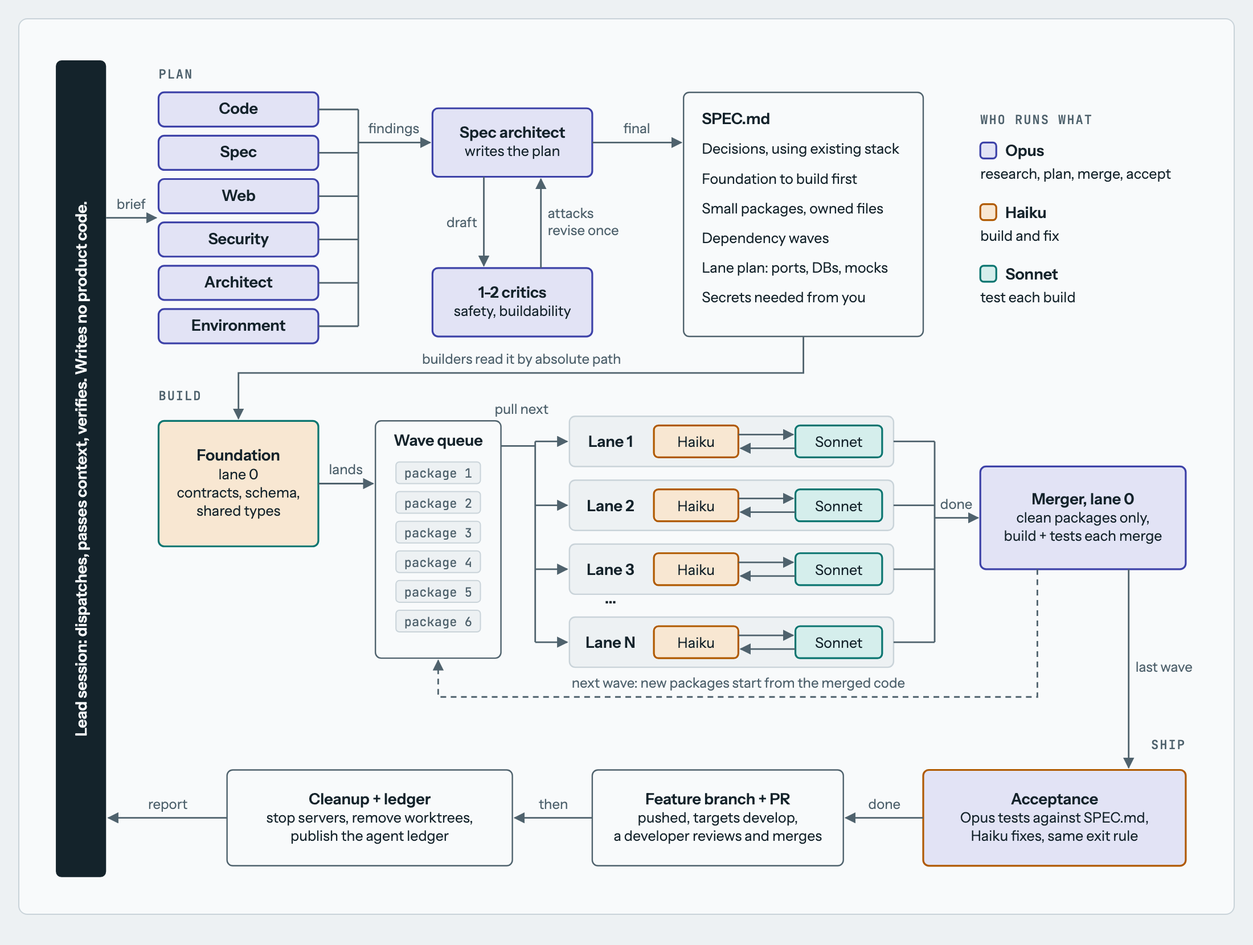
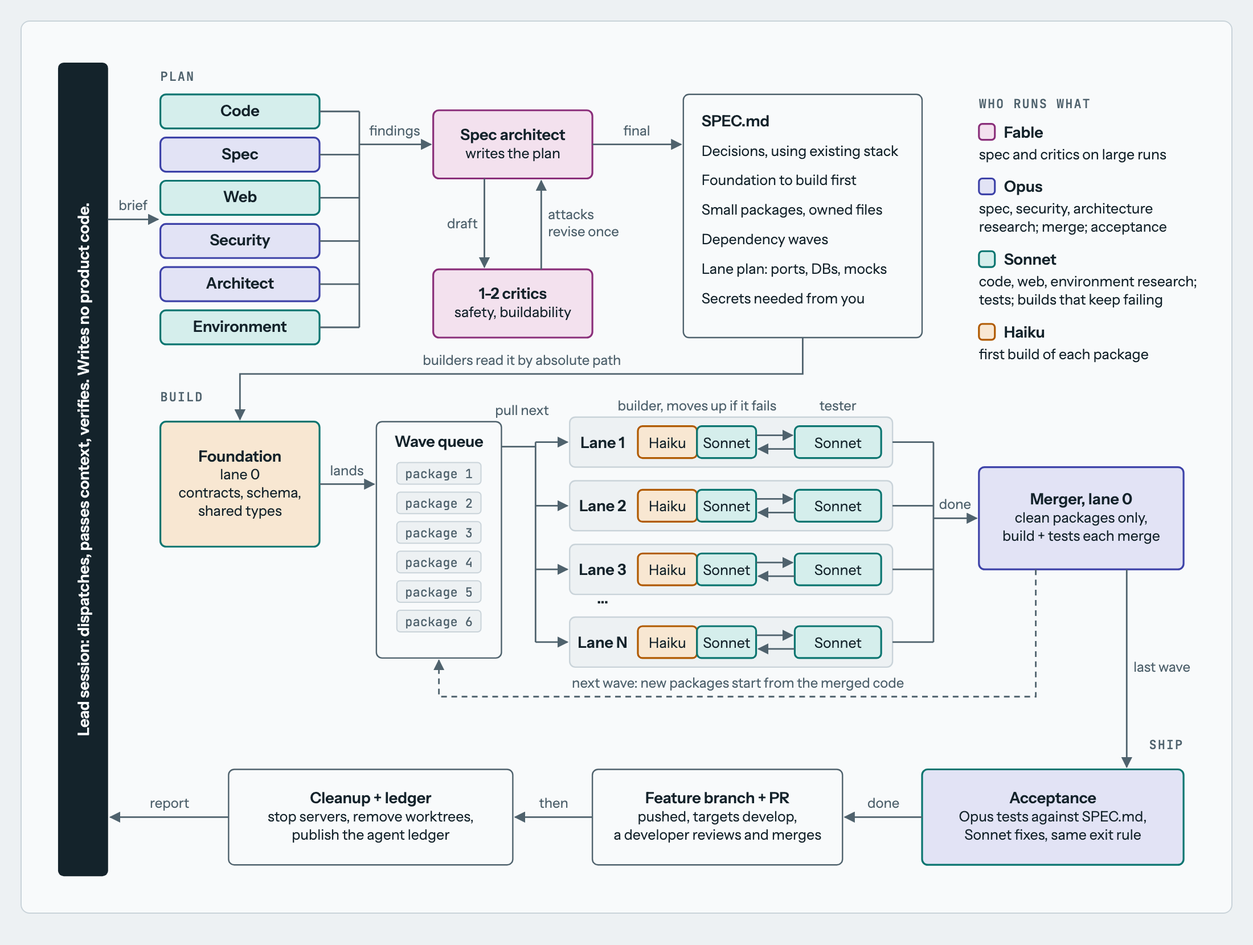
Redraw the factory diagram for the new model roles
Show Sonnet and Opus research, a Fable architect and critics, builders
that start on Haiku and move up to Sonnet, and a Sonnet acceptance
fixer, in both the README image and the map page.

diff --git a/software-factory-map.html b/software-factory-map.html
@@ -11,7 +11,7 @@
 /* Layout: a plant schematic. One large line drawing, then close-ups of its two key stations. */
 :root{
   --bg:#EDF1F3; --panel:#F8FAFB; --fg:#14232B; --muted:#4F626D; --line:#C9D3D9;
-  --opus:#3D42A8; --opus-t:#E2E3F5; --haiku:#B05A00; --haiku-t:#F8E7D2; --sonnet:#0A7570; --sonnet-t:#D5EEEC;
+  --opus:#3D42A8; --opus-t:#E2E3F5; --haiku:#B05A00; --haiku-t:#F8E7D2; --sonnet:#0A7570; --sonnet-t:#D5EEEC; --fable:#8A2F7A; --fable-t:#F3E1EE;
   --ok:#23723F; --ok-t:#DCEFE2; --bad:#B7322C; --bad-t:#F7E0DE; --lead:#14232B; --lead-fg:#F8FAFB;
   --display:"Bricolage Grotesque","Avenir Next",system-ui,sans-serif;
   --body:"Instrument Sans",system-ui,-apple-system,"Segoe UI",sans-serif;
@@ -19,11 +19,11 @@
 }
 @media (prefers-color-scheme: dark){:root:not([data-theme="light"]){
   --bg:#10181D; --panel:#172228; --fg:#E6EDF0; --muted:#9DAFB9; --line:#2E3E47;
-  --opus:#9CA1F2; --opus-t:#262A55; --haiku:#EFA650; --haiku-t:#47300F; --sonnet:#55CFC8; --sonnet-t:#0F3B3A;
+  --opus:#9CA1F2; --opus-t:#262A55; --haiku:#EFA650; --haiku-t:#47300F; --sonnet:#55CFC8; --sonnet-t:#0F3B3A; --fable:#E58BD6; --fable-t:#3F1A38;
   --ok:#6FCF8F; --ok-t:#163522; --bad:#F2857F; --bad-t:#431E1C; --lead:#E6EDF0; --lead-fg:#10181D; color-scheme:dark}}
 :root[data-theme="dark"]{
   --bg:#10181D; --panel:#172228; --fg:#E6EDF0; --muted:#9DAFB9; --line:#2E3E47;
-  --opus:#9CA1F2; --opus-t:#262A55; --haiku:#EFA650; --haiku-t:#47300F; --sonnet:#55CFC8; --sonnet-t:#0F3B3A;
+  --opus:#9CA1F2; --opus-t:#262A55; --haiku:#EFA650; --haiku-t:#47300F; --sonnet:#55CFC8; --sonnet-t:#0F3B3A; --fable:#E58BD6; --fable-t:#3F1A38;
   --ok:#6FCF8F; --ok-t:#163522; --bad:#F2857F; --bad-t:#431E1C; --lead:#E6EDF0; --lead-fg:#10181D; color-scheme:dark}
 *{box-sizing:border-box}
 body{background:var(--bg);color:var(--fg);font:16px/1.55 var(--body);margin:0}
@@ -50,7 +50,8 @@ svg .g{stroke:var(--line);stroke-width:1}
 .b-h{fill:var(--haiku-t);stroke:var(--haiku);stroke-width:1.6}
 .b-s{fill:var(--sonnet-t);stroke:var(--sonnet);stroke-width:1.6}
 .b-hs{fill:var(--haiku-t);stroke:var(--sonnet);stroke-width:1.6}
-.b-os{fill:var(--opus-t);stroke:var(--haiku);stroke-width:1.6}
+.b-os{fill:var(--opus-t);stroke:var(--sonnet);stroke-width:1.6}
+.b-f{fill:var(--fable-t);stroke:var(--fable);stroke-width:1.6}
 .b-n{fill:var(--panel);stroke:var(--muted);stroke-width:1.2}
 .b-q{fill:var(--bg);stroke:var(--line);stroke-width:1}
 .b-lane{fill:var(--bg);stroke:var(--line);stroke-width:1.2}
@@ -70,7 +71,7 @@ rect.b-lead + text{fill:var(--lead-fg)}
   <section>
     <h2>The whole line</h2>
     <figure>
-      <div class="draw"><svg viewBox="0 0 1040 760" role="img" aria-label="Research feeds a spec, lanes build and test packages wave by wave, one merger integrates each wave, then acceptance, cleanup and a report return to the lead." style="min-width:760px"><defs><marker id="a1" viewBox="0 0 10 10" refX="9" refY="5" markerWidth="7" markerHeight="7" orient="auto-start-reverse"><path d="M0 0L10 5L0 10z" fill="currentColor"/></marker></defs><rect x="20" y="24" width="44" height="716" rx="5" class="b-lead"/><text x="47" y="382" class="tb" text-anchor="middle" transform="rotate(-90 47 382)">Lead session: dispatches, passes context, verifies. Writes no product code.</text><text x="110" y="40" class="lab" text-anchor="start">PLAN</text><text x="110" y="322" class="lab" text-anchor="start">BUILD</text><text x="1010" y="628" class="lab" text-anchor="end">SHIP</text><rect x="110" y="52" width="140" height="30" rx="5" class="b-o"/><text x="180.0" y="71.0" class="tb" text-anchor="middle">Code</text><polyline points="250,67 285,67" class="w"/><rect x="110" y="90" width="140" height="30" rx="5" class="b-o"/><text x="180.0" y="109.0" class="tb" text-anchor="middle">Spec</text><polyline points="250,105 285,105" class="w"/><rect x="110" y="128" width="140" height="30" rx="5" class="b-o"/><text x="180.0" y="147.0" class="tb" text-anchor="middle">Web</text><polyline points="250,143 285,143" class="w"/><rect x="110" y="166" width="140" height="30" rx="5" class="b-o"/><text x="180.0" y="185.0" class="tb" text-anchor="middle">Security</text><polyline points="250,181 285,181" class="w"/><rect x="110" y="204" width="140" height="30" rx="5" class="b-o"/><text x="180.0" y="223.0" class="tb" text-anchor="middle">Architect</text><polyline points="250,219 285,219" class="w"/><rect x="110" y="242" width="140" height="30" rx="5" class="b-o"/><text x="180.0" y="261.0" class="tb" text-anchor="middle">Environment</text><polyline points="250,257 285,257" class="w"/><polyline points="285,67 285,257" class="w"/><polyline points="64,162 108,162" class="w" marker-end="url(#a1)"/><text x="86" y="154" class="lbl" text-anchor="middle">brief</text><polyline points="285,96 348,96" class="w" marker-end="url(#a1)"/><text x="316" y="88" class="lbl" text-anchor="middle">findings</text><rect x="350" y="66" width="140" height="60" rx="5" class="b-o"/><text x="420.0" y="92.0" class="tb" text-anchor="middle">Spec architect</text><text x="420.0" y="108.0" class="t" text-anchor="middle">writes the plan</text><rect x="350" y="206" width="140" height="60" rx="5" class="b-o"/><text x="420.0" y="232.0" class="tb" text-anchor="middle">1-2 critics</text><text x="420.0" y="248.0" class="t" text-anchor="middle">safety, buildability</text><polyline points="395,126 395,204" class="w" marker-end="url(#a1)"/><text x="389" y="170" class="lbl" text-anchor="end">draft</text><polyline points="445,206 445,128" class="w" marker-end="url(#a1)"/><text x="451" y="162" class="lbl" text-anchor="start">attacks</text><text x="451" y="177" class="lbl" text-anchor="start">revise once</text><polyline points="490,96 568,96" class="w" marker-end="url(#a1)"/><text x="529" y="88" class="lbl" text-anchor="middle">final</text><rect x="570" y="52" width="210" height="214" rx="5" class="b-n"/><text x="586" y="80" class="tb" text-anchor="start">SPEC.md</text><text x="586" y="106" class="t" text-anchor="start">Decisions, using existing stack</text><text x="586" y="132" class="t" text-anchor="start">Foundation to build first</text><text x="586" y="158" class="t" text-anchor="start">Small packages, owned files</text><text x="586" y="184" class="t" text-anchor="start">Dependency waves</text><text x="586" y="210" class="t" text-anchor="start">Lane plan: ports, DBs, mocks</text><text x="586" y="236" class="t" text-anchor="start">Secrets needed from you</text><text x="830" y="80" class="lab" text-anchor="start">WHO RUNS WHAT</text><rect x="830" y="96" width="14" height="14" rx="3" class="b-o"/><text x="852" y="108" class="tb" text-anchor="start">Opus</text><text x="830" y="128" class="t" text-anchor="start">research, plan, merge, accept</text><rect x="830" y="150" width="14" height="14" rx="3" class="b-h"/><text x="852" y="162" class="tb" text-anchor="start">Haiku</text><text x="830" y="182" class="t" text-anchor="start">build and fix</text><rect x="830" y="204" width="14" height="14" rx="3" class="b-s"/><text x="852" y="216" class="tb" text-anchor="start">Sonnet</text><text x="830" y="236" class="t" text-anchor="start">test each build</text><polyline points="675,266 675,298 180,298 180,338" class="w" marker-end="url(#a1)"/><text x="428" y="290" class="lbl" text-anchor="middle">builders read it by absolute path</text><rect x="110" y="340" width="140" height="110" rx="5" class="b-hs"/><text x="180.0" y="375.0" class="tb" text-anchor="middle">Foundation</text><text x="180.0" y="391.0" class="t" text-anchor="middle">lane 0</text><text x="180.0" y="407.0" class="t" text-anchor="middle">contracts, schema,</text><text x="180.0" y="423.0" class="t" text-anchor="middle">shared types</text><polyline points="250,395 298,395" class="w" marker-end="url(#a1)"/><text x="274" y="387" class="lbl" text-anchor="middle">lands</text><rect x="300" y="340" width="110" height="208" rx="5" class="b-n"/><text x="355" y="362" class="tb" text-anchor="middle">Wave queue</text><rect x="318" y="376" width="74" height="19" rx="3" class="b-q"/><text x="355" y="390" class="m" text-anchor="middle">package 1</text><rect x="318" y="402" width="74" height="19" rx="3" class="b-q"/><text x="355" y="416" class="m" text-anchor="middle">package 2</text><rect x="318" y="428" width="74" height="19" rx="3" class="b-q"/><text x="355" y="442" class="m" text-anchor="middle">package 3</text><rect x="318" y="454" width="74" height="19" rx="3" class="b-q"/><text x="355" y="468" class="m" text-anchor="middle">package 4</text><rect x="318" y="480" width="74" height="19" rx="3" class="b-q"/><text x="355" y="494" class="m" text-anchor="middle">package 5</text><rect x="318" y="506" width="74" height="19" rx="3" class="b-q"/><text x="355" y="520" class="m" text-anchor="middle">package 6</text><polyline points="410,362 440,362" class="w"/><polyline points="440,358 440,534" class="w"/><polyline points="440,358 468,358" class="w" marker-end="url(#a1)"/><rect x="470" y="336" width="284" height="44" rx="5" class="b-lane"/><text x="506" y="363" class="tb" text-anchor="middle">Lane 1</text><rect x="544" y="344" width="74" height="28" rx="4" class="b-h"/><text x="581" y="363" class="t" text-anchor="middle">Haiku</text><rect x="668" y="344" width="76" height="28" rx="4" class="b-s"/><text x="706" y="363" class="t" text-anchor="middle">Sonnet</text><polyline points="618,352 666,352" class="w" marker-end="url(#a1)"/><polyline points="668,364 620,364" class="w" marker-end="url(#a1)"/><polyline points="754,358 790,358" class="w"/><polyline points="440,414 468,414" class="w" marker-end="url(#a1)"/><rect x="470" y="392" width="284" height="44" rx="5" class="b-lane"/><text x="506" y="419" class="tb" text-anchor="middle">Lane 2</text><rect x="544" y="400" width="74" height="28" rx="4" class="b-h"/><text x="581" y="419" class="t" text-anchor="middle">Haiku</text><rect x="668" y="400" width="76" height="28" rx="4" class="b-s"/><text x="706" y="419" class="t" text-anchor="middle">Sonnet</text><polyline points="618,408 666,408" class="w" marker-end="url(#a1)"/><polyline points="668,420 620,420" class="w" marker-end="url(#a1)"/><polyline points="754,414 790,414" class="w"/><polyline points="440,470 468,470" class="w" marker-end="url(#a1)"/><rect x="470" y="448" width="284" height="44" rx="5" class="b-lane"/><text x="506" y="475" class="tb" text-anchor="middle">Lane 3</text><rect x="544" y="456" width="74" height="28" rx="4" class="b-h"/><text x="581" y="475" class="t" text-anchor="middle">Haiku</text><rect x="668" y="456" width="76" height="28" rx="4" class="b-s"/><text x="706" y="475" class="t" text-anchor="middle">Sonnet</text><polyline points="618,464 666,464" class="w" marker-end="url(#a1)"/><polyline points="668,476 620,476" class="w" marker-end="url(#a1)"/><polyline points="754,470 790,470" class="w"/><polyline points="440,534 468,534" class="w" marker-end="url(#a1)"/><rect x="470" y="512" width="284" height="44" rx="5" class="b-lane"/><text x="506" y="539" class="tb" text-anchor="middle">Lane N</text><rect x="544" y="520" width="74" height="28" rx="4" class="b-h"/><text x="581" y="539" class="t" text-anchor="middle">Haiku</text><rect x="668" y="520" width="76" height="28" rx="4" class="b-s"/><text x="706" y="539" class="t" text-anchor="middle">Sonnet</text><polyline points="618,528 666,528" class="w" marker-end="url(#a1)"/><polyline points="668,540 620,540" class="w" marker-end="url(#a1)"/><polyline points="754,534 790,534" class="w"/><text x="506" y="500" class="tb" text-anchor="middle">...</text><text x="428" y="334" class="lbl" text-anchor="middle">pull next</text><polyline points="790,358 790,534" class="w"/><polyline points="790,425 828,425" class="w" marker-end="url(#a1)"/><text x="809" y="417" class="lbl" text-anchor="middle">done</text><rect x="830" y="380" width="180" height="90" rx="5" class="b-o"/><text x="920.0" y="413.0" class="tb" text-anchor="middle">Merger, lane 0</text><text x="920.0" y="429.0" class="t" text-anchor="middle">clean packages only,</text><text x="920.0" y="445.0" class="t" text-anchor="middle">build + tests each merge</text><polyline points="880,470 880,582 355,582 355,550" class="w" stroke-dasharray="5 4" marker-end="url(#a1)"/><text x="618" y="574" class="lbl" text-anchor="middle">next wave: new packages start from the merged code</text><polyline points="960,470 960,644" class="w" marker-end="url(#a1)"/><text x="966" y="560" class="lbl" text-anchor="start">last wave</text><rect x="780" y="646" width="230" height="84" rx="5" class="b-os"/><text x="895.0" y="676.0" class="tb" text-anchor="middle">Acceptance</text><text x="895.0" y="692.0" class="t" text-anchor="middle">Opus tests against SPEC.md,</text><text x="895.0" y="708.0" class="t" text-anchor="middle">Haiku fixes, same exit rule</text><polyline points="780,688 712,688" class="w" marker-end="url(#a1)"/><text x="746" y="680" class="lbl" text-anchor="middle">done</text><rect x="490" y="646" width="220" height="84" rx="5" class="b-n"/><text x="600.0" y="676.0" class="tb" text-anchor="middle">Feature branch + PR</text><text x="600.0" y="692.0" class="t" text-anchor="middle">pushed, targets develop,</text><text x="600.0" y="708.0" class="t" text-anchor="middle">a developer reviews and merges</text><polyline points="490,688 422,688" class="w" marker-end="url(#a1)"/><text x="456" y="680" class="lbl" text-anchor="middle">then</text><rect x="170" y="646" width="250" height="84" rx="5" class="b-n"/><text x="295.0" y="676.0" class="tb" text-anchor="middle">Cleanup + ledger</text><text x="295.0" y="692.0" class="t" text-anchor="middle">stop servers, remove worktrees,</text><text x="295.0" y="708.0" class="t" text-anchor="middle">publish the agent ledger</text><polyline points="170,688 66,688" class="w" marker-end="url(#a1)"/><text x="118" y="680" class="lbl" text-anchor="middle">report</text></svg></div>
+      <div class="draw"><svg viewBox="0 0 1040 760" role="img" aria-label="Research feeds a spec, lanes build and test packages wave by wave, one merger integrates each wave, then acceptance, cleanup and a report return to the lead." style="min-width:760px"><defs><marker id="a1" viewBox="0 0 10 10" refX="9" refY="5" markerWidth="7" markerHeight="7" orient="auto-start-reverse"><path d="M0 0L10 5L0 10z" fill="currentColor"/></marker></defs><rect x="20" y="24" width="44" height="716" rx="5" class="b-lead"/><text x="47" y="382" class="tb" text-anchor="middle" transform="rotate(-90 47 382)">Lead session: dispatches, passes context, verifies. Writes no product code.</text><text x="110" y="40" class="lab" text-anchor="start">PLAN</text><text x="110" y="322" class="lab" text-anchor="start">BUILD</text><text x="1010" y="628" class="lab" text-anchor="end">SHIP</text><rect x="110" y="52" width="140" height="30" rx="5" class="b-s"/><text x="180.0" y="71.0" class="tb" text-anchor="middle">Code</text><polyline points="250,67 285,67" class="w"/><rect x="110" y="90" width="140" height="30" rx="5" class="b-o"/><text x="180.0" y="109.0" class="tb" text-anchor="middle">Spec</text><polyline points="250,105 285,105" class="w"/><rect x="110" y="128" width="140" height="30" rx="5" class="b-s"/><text x="180.0" y="147.0" class="tb" text-anchor="middle">Web</text><polyline points="250,143 285,143" class="w"/><rect x="110" y="166" width="140" height="30" rx="5" class="b-o"/><text x="180.0" y="185.0" class="tb" text-anchor="middle">Security</text><polyline points="250,181 285,181" class="w"/><rect x="110" y="204" width="140" height="30" rx="5" class="b-o"/><text x="180.0" y="223.0" class="tb" text-anchor="middle">Architect</text><polyline points="250,219 285,219" class="w"/><rect x="110" y="242" width="140" height="30" rx="5" class="b-s"/><text x="180.0" y="261.0" class="tb" text-anchor="middle">Environment</text><polyline points="250,257 285,257" class="w"/><polyline points="285,67 285,257" class="w"/><polyline points="64,162 108,162" class="w" marker-end="url(#a1)"/><text x="86" y="154" class="lbl" text-anchor="middle">brief</text><polyline points="285,96 348,96" class="w" marker-end="url(#a1)"/><text x="316" y="88" class="lbl" text-anchor="middle">findings</text><rect x="350" y="66" width="140" height="60" rx="5" class="b-f"/><text x="420.0" y="92.0" class="tb" text-anchor="middle">Spec architect</text><text x="420.0" y="108.0" class="t" text-anchor="middle">writes the plan</text><rect x="350" y="206" width="140" height="60" rx="5" class="b-f"/><text x="420.0" y="232.0" class="tb" text-anchor="middle">1-2 critics</text><text x="420.0" y="248.0" class="t" text-anchor="middle">safety, buildability</text><polyline points="395,126 395,204" class="w" marker-end="url(#a1)"/><text x="389" y="170" class="lbl" text-anchor="end">draft</text><polyline points="445,206 445,128" class="w" marker-end="url(#a1)"/><text x="451" y="162" class="lbl" text-anchor="start">attacks</text><text x="451" y="177" class="lbl" text-anchor="start">revise once</text><polyline points="490,96 568,96" class="w" marker-end="url(#a1)"/><text x="529" y="88" class="lbl" text-anchor="middle">final</text><rect x="570" y="52" width="210" height="214" rx="5" class="b-n"/><text x="586" y="80" class="tb" text-anchor="start">SPEC.md</text><text x="586" y="106" class="t" text-anchor="start">Decisions, using existing stack</text><text x="586" y="132" class="t" text-anchor="start">Foundation to build first</text><text x="586" y="158" class="t" text-anchor="start">Small packages, owned files</text><text x="586" y="184" class="t" text-anchor="start">Dependency waves</text><text x="586" y="210" class="t" text-anchor="start">Lane plan: ports, DBs, mocks</text><text x="586" y="236" class="t" text-anchor="start">Secrets needed from you</text><text x="830" y="64" class="lab" text-anchor="start">WHO RUNS WHAT</text><rect x="830" y="78" width="14" height="14" rx="3" class="b-f"/><text x="852" y="90" class="tb" text-anchor="start">Fable</text><text x="830" y="109" class="t" text-anchor="start">spec and critics on large runs</text><rect x="830" y="126" width="14" height="14" rx="3" class="b-o"/><text x="852" y="138" class="tb" text-anchor="start">Opus</text><text x="830" y="157" class="t" text-anchor="start">spec, security, architecture</text><text x="830" y="173" class="t" text-anchor="start">research; merge; acceptance</text><rect x="830" y="190" width="14" height="14" rx="3" class="b-s"/><text x="852" y="202" class="tb" text-anchor="start">Sonnet</text><text x="830" y="221" class="t" text-anchor="start">code, web, environment research;</text><text x="830" y="237" class="t" text-anchor="start">tests; builds that keep failing</text><rect x="830" y="254" width="14" height="14" rx="3" class="b-h"/><text x="852" y="266" class="tb" text-anchor="start">Haiku</text><text x="830" y="285" class="t" text-anchor="start">first build of each package</text><polyline points="675,266 675,298 180,298 180,338" class="w" marker-end="url(#a1)"/><text x="428" y="290" class="lbl" text-anchor="middle">builders read it by absolute path</text><rect x="110" y="340" width="140" height="110" rx="5" class="b-hs"/><text x="180.0" y="375.0" class="tb" text-anchor="middle">Foundation</text><text x="180.0" y="391.0" class="t" text-anchor="middle">lane 0</text><text x="180.0" y="407.0" class="t" text-anchor="middle">contracts, schema,</text><text x="180.0" y="423.0" class="t" text-anchor="middle">shared types</text><polyline points="250,395 298,395" class="w" marker-end="url(#a1)"/><text x="274" y="387" class="lbl" text-anchor="middle">lands</text><rect x="300" y="340" width="110" height="208" rx="5" class="b-n"/><text x="355" y="362" class="tb" text-anchor="middle">Wave queue</text><rect x="318" y="376" width="74" height="19" rx="3" class="b-q"/><text x="355" y="390" class="m" text-anchor="middle">package 1</text><rect x="318" y="402" width="74" height="19" rx="3" class="b-q"/><text x="355" y="416" class="m" text-anchor="middle">package 2</text><rect x="318" y="428" width="74" height="19" rx="3" class="b-q"/><text x="355" y="442" class="m" text-anchor="middle">package 3</text><rect x="318" y="454" width="74" height="19" rx="3" class="b-q"/><text x="355" y="468" class="m" text-anchor="middle">package 4</text><rect x="318" y="480" width="74" height="19" rx="3" class="b-q"/><text x="355" y="494" class="m" text-anchor="middle">package 5</text><rect x="318" y="506" width="74" height="19" rx="3" class="b-q"/><text x="355" y="520" class="m" text-anchor="middle">package 6</text><polyline points="410,362 440,362" class="w"/><polyline points="440,358 440,534" class="w"/><polyline points="440,358 468,358" class="w" marker-end="url(#a1)"/><rect x="470" y="336" width="284" height="44" rx="5" class="b-lane"/><text x="499" y="363" class="tb" text-anchor="middle">Lane 1</text><rect x="530" y="344" width="52" height="28" rx="4" class="b-h"/><rect x="582" y="344" width="52" height="28" rx="4" class="b-s"/><text x="556" y="363" class="t" text-anchor="middle">Haiku</text><text x="608" y="363" class="t" text-anchor="middle">Sonnet</text><rect x="668" y="344" width="76" height="28" rx="4" class="b-s"/><text x="706" y="363" class="t" text-anchor="middle">Sonnet</text><polyline points="634,352 666,352" class="w" marker-end="url(#a1)"/><polyline points="668,364 636,364" class="w" marker-end="url(#a1)"/><polyline points="754,358 790,358" class="w"/><polyline points="440,414 468,414" class="w" marker-end="url(#a1)"/><rect x="470" y="392" width="284" height="44" rx="5" class="b-lane"/><text x="499" y="419" class="tb" text-anchor="middle">Lane 2</text><rect x="530" y="400" width="52" height="28" rx="4" class="b-h"/><rect x="582" y="400" width="52" height="28" rx="4" class="b-s"/><text x="556" y="419" class="t" text-anchor="middle">Haiku</text><text x="608" y="419" class="t" text-anchor="middle">Sonnet</text><rect x="668" y="400" width="76" height="28" rx="4" class="b-s"/><text x="706" y="419" class="t" text-anchor="middle">Sonnet</text><polyline points="634,408 666,408" class="w" marker-end="url(#a1)"/><polyline points="668,420 636,420" class="w" marker-end="url(#a1)"/><polyline points="754,414 790,414" class="w"/><polyline points="440,470 468,470" class="w" marker-end="url(#a1)"/><rect x="470" y="448" width="284" height="44" rx="5" class="b-lane"/><text x="499" y="475" class="tb" text-anchor="middle">Lane 3</text><rect x="530" y="456" width="52" height="28" rx="4" class="b-h"/><rect x="582" y="456" width="52" height="28" rx="4" class="b-s"/><text x="556" y="475" class="t" text-anchor="middle">Haiku</text><text x="608" y="475" class="t" text-anchor="middle">Sonnet</text><rect x="668" y="456" width="76" height="28" rx="4" class="b-s"/><text x="706" y="475" class="t" text-anchor="middle">Sonnet</text><polyline points="634,464 666,464" class="w" marker-end="url(#a1)"/><polyline points="668,476 636,476" class="w" marker-end="url(#a1)"/><polyline points="754,470 790,470" class="w"/><polyline points="440,534 468,534" class="w" marker-end="url(#a1)"/><rect x="470" y="512" width="284" height="44" rx="5" class="b-lane"/><text x="499" y="539" class="tb" text-anchor="middle">Lane N</text><rect x="530" y="520" width="52" height="28" rx="4" class="b-h"/><rect x="582" y="520" width="52" height="28" rx="4" class="b-s"/><text x="556" y="539" class="t" text-anchor="middle">Haiku</text><text x="608" y="539" class="t" text-anchor="middle">Sonnet</text><rect x="668" y="520" width="76" height="28" rx="4" class="b-s"/><text x="706" y="539" class="t" text-anchor="middle">Sonnet</text><polyline points="634,528 666,528" class="w" marker-end="url(#a1)"/><polyline points="668,540 636,540" class="w" marker-end="url(#a1)"/><polyline points="754,534 790,534" class="w"/><text x="499" y="500" class="tb" text-anchor="middle">...</text><text x="428" y="334" class="lbl" text-anchor="middle">pull next</text><text x="582" y="330" class="lbl" text-anchor="middle">builder, moves up if it fails</text><text x="706" y="330" class="lbl" text-anchor="middle">tester</text><polyline points="790,358 790,534" class="w"/><polyline points="790,425 828,425" class="w" marker-end="url(#a1)"/><text x="809" y="417" class="lbl" text-anchor="middle">done</text><rect x="830" y="380" width="180" height="90" rx="5" class="b-o"/><text x="920.0" y="413.0" class="tb" text-anchor="middle">Merger, lane 0</text><text x="920.0" y="429.0" class="t" text-anchor="middle">clean packages only,</text><text x="920.0" y="445.0" class="t" text-anchor="middle">build + tests each merge</text><polyline points="880,470 880,582 355,582 355,550" class="w" stroke-dasharray="5 4" marker-end="url(#a1)"/><text x="618" y="574" class="lbl" text-anchor="middle">next wave: new packages start from the merged code</text><polyline points="960,470 960,644" class="w" marker-end="url(#a1)"/><text x="966" y="560" class="lbl" text-anchor="start">last wave</text><rect x="780" y="646" width="230" height="84" rx="5" class="b-os"/><text x="895.0" y="676.0" class="tb" text-anchor="middle">Acceptance</text><text x="895.0" y="692.0" class="t" text-anchor="middle">Opus tests against SPEC.md,</text><text x="895.0" y="708.0" class="t" text-anchor="middle">Sonnet fixes, same exit rule</text><polyline points="780,688 712,688" class="w" marker-end="url(#a1)"/><text x="746" y="680" class="lbl" text-anchor="middle">done</text><rect x="490" y="646" width="220" height="84" rx="5" class="b-n"/><text x="600.0" y="676.0" class="tb" text-anchor="middle">Feature branch + PR</text><text x="600.0" y="692.0" class="t" text-anchor="middle">pushed, targets develop,</text><text x="600.0" y="708.0" class="t" text-anchor="middle">a developer reviews and merges</text><polyline points="490,688 422,688" class="w" marker-end="url(#a1)"/><text x="456" y="680" class="lbl" text-anchor="middle">then</text><rect x="170" y="646" width="250" height="84" rx="5" class="b-n"/><text x="295.0" y="676.0" class="tb" text-anchor="middle">Cleanup + ledger</text><text x="295.0" y="692.0" class="t" text-anchor="middle">stop servers, remove worktrees,</text><text x="295.0" y="708.0" class="t" text-anchor="middle">publish the agent ledger</text><polyline points="170,688 66,688" class="w" marker-end="url(#a1)"/><text x="118" y="680" class="lbl" text-anchor="middle">report</text></svg></div>
       <figcaption>Follow the arrows from the top left. The only loop across stages is the dashed line: each wave's clean packages are merged, and the next wave's packages start from that merged code. The bottom row runs right to left: the feature branch is pushed with a pull request, the factory cleans up and publishes an agent ledger, and the report goes to the lead. A developer merges the pull request; the factory never does.</figcaption>
     </figure>
   </section>
@@ -79,7 +80,7 @@ rect.b-lead + text{fill:var(--lead-fg)}
     <h2>Inside one lane: when the loop stops</h2>
     <p class="intro">A lane takes one package at a time. Only critical and high bugs send work back to the builder, which moves up from Haiku to Sonnet if a package keeps failing, so the loop can't run on forever chasing small issues.</p>
     <figure>
-      <div class="draw"><svg viewBox="0 0 1000 345" role="img" aria-label="Haiku builds, Sonnet tests. Critical or high bugs go back to Haiku until none remain or max cycles is reached. Medium and low bugs are logged." style="min-width:760px"><defs><marker id="a2" viewBox="0 0 10 10" refX="9" refY="5" markerWidth="7" markerHeight="7" orient="auto-start-reverse"><path d="M0 0L10 5L0 10z" fill="currentColor"/></marker></defs><rect x="20" y="130" width="130" height="56" rx="5" class="b-n"/><text x="85.0" y="154.0" class="tb" text-anchor="middle">Next package</text><text x="85.0" y="170.0" class="t" text-anchor="middle">from the queue</text><polyline points="150,158 198,158" class="w" marker-end="url(#a2)"/><rect x="200" y="130" width="170" height="56" rx="5" class="b-h"/><text x="285.0" y="154.0" class="tb" text-anchor="middle">Haiku builds</text><text x="285.0" y="170.0" class="t" text-anchor="middle">writes tests, commits</text><polyline points="370,158 428,158" class="w" marker-end="url(#a2)"/><text x="399" y="150" class="lbl" text-anchor="middle">commit</text><rect x="430" y="130" width="190" height="56" rx="5" class="b-s"/><text x="525.0" y="154.0" class="tb" text-anchor="middle">Sonnet tests</text><text x="525.0" y="170.0" class="t" text-anchor="middle">restarts app, repros twice</text><polyline points="620,158 648,158" class="w" marker-end="url(#a2)"/><polygon points="720,106 790,158 720,210 650,158" class="b-n"/><text x="720" y="154" class="tb" text-anchor="middle">Critical or</text><text x="720" y="170" class="tb" text-anchor="middle">high bugs?</text><polyline points="790,158 838,158" class="w" marker-end="url(#a2)"/><text x="814" y="150" class="lbl" text-anchor="middle">no</text><rect x="840" y="130" width="140" height="56" rx="5" class="b-ok"/><text x="910.0" y="154.0" class="tb" text-anchor="middle">Clean</text><text x="910.0" y="170.0" class="t" text-anchor="middle">ready to merge</text><polyline points="720,106 720,56 285,56 285,128" class="w" marker-end="url(#a2)"/><text x="502" y="48" class="lbl" text-anchor="middle">yes, cycles left: the bug report goes into the next build</text><polyline points="720,210 720,268" class="w" marker-end="url(#a2)"/><text x="728" y="244" class="lbl" text-anchor="start">yes, at max cycles</text><rect x="650" y="270" width="170" height="56" rx="5" class="b-bad"/><text x="735.0" y="294.0" class="tb" text-anchor="middle">Blocked</text><text x="735.0" y="310.0" class="t" text-anchor="middle">named in final report</text><polyline points="540,186 540,268" class="w" marker-end="url(#a2)"/><text x="546" y="232" class="lbl" text-anchor="start">medium, low</text><rect x="460" y="270" width="160" height="56" rx="5" class="b-n"/><text x="540.0" y="294.0" class="tb" text-anchor="middle">.factory/BUGS.md</text><text x="540.0" y="310.0" class="t" text-anchor="middle">logged, not fixed</text><polyline points="250,186 250,268" class="w" marker-end="url(#a2)"/><text x="244" y="232" class="lbl" text-anchor="end">agent dies</text><polyline points="450,186 450,226 330,226 330,268" class="w" marker-end="url(#a2)"/><text x="390" y="218" class="lbl" text-anchor="middle">dies or no proof</text><rect x="200" y="270" width="170" height="56" rx="5" class="b-bad"/><text x="285.0" y="294.0" class="tb" text-anchor="middle">Unverified</text><text x="285.0" y="310.0" class="t" text-anchor="middle">follow-up workflow</text></svg></div>
+      <div class="draw"><svg viewBox="0 0 1000 345" role="img" aria-label="A builder, Haiku first and Sonnet if it keeps failing, builds and Sonnet tests. Critical or high bugs go back to the builder until none remain or max cycles is reached. Medium and low bugs are logged." style="min-width:760px"><defs><marker id="a2" viewBox="0 0 10 10" refX="9" refY="5" markerWidth="7" markerHeight="7" orient="auto-start-reverse"><path d="M0 0L10 5L0 10z" fill="currentColor"/></marker></defs><rect x="20" y="130" width="130" height="56" rx="5" class="b-n"/><text x="85.0" y="154.0" class="tb" text-anchor="middle">Next package</text><text x="85.0" y="170.0" class="t" text-anchor="middle">from the queue</text><polyline points="150,158 198,158" class="w" marker-end="url(#a2)"/><rect x="200" y="130" width="170" height="56" rx="5" class="b-h"/><text x="285.0" y="154.0" class="tb" text-anchor="middle">Builder</text><text x="285.0" y="170.0" class="t" text-anchor="middle">Haiku first, then Sonnet</text><polyline points="370,158 428,158" class="w" marker-end="url(#a2)"/><text x="399" y="150" class="lbl" text-anchor="middle">commit</text><rect x="430" y="130" width="190" height="56" rx="5" class="b-s"/><text x="525.0" y="154.0" class="tb" text-anchor="middle">Sonnet tests</text><text x="525.0" y="170.0" class="t" text-anchor="middle">restarts app, repros twice</text><polyline points="620,158 648,158" class="w" marker-end="url(#a2)"/><polygon points="720,106 790,158 720,210 650,158" class="b-n"/><text x="720" y="154" class="tb" text-anchor="middle">Critical or</text><text x="720" y="170" class="tb" text-anchor="middle">high bugs?</text><polyline points="790,158 838,158" class="w" marker-end="url(#a2)"/><text x="814" y="150" class="lbl" text-anchor="middle">no</text><rect x="840" y="130" width="140" height="56" rx="5" class="b-ok"/><text x="910.0" y="154.0" class="tb" text-anchor="middle">Clean</text><text x="910.0" y="170.0" class="t" text-anchor="middle">ready to merge</text><polyline points="720,106 720,56 285,56 285,128" class="w" marker-end="url(#a2)"/><text x="502" y="48" class="lbl" text-anchor="middle">yes, cycles left: the bug report goes into the next build</text><polyline points="720,210 720,268" class="w" marker-end="url(#a2)"/><text x="728" y="244" class="lbl" text-anchor="start">yes, at max cycles</text><rect x="650" y="270" width="170" height="56" rx="5" class="b-bad"/><text x="735.0" y="294.0" class="tb" text-anchor="middle">Blocked</text><text x="735.0" y="310.0" class="t" text-anchor="middle">named in final report</text><polyline points="540,186 540,268" class="w" marker-end="url(#a2)"/><text x="546" y="232" class="lbl" text-anchor="start">medium, low</text><rect x="460" y="270" width="160" height="56" rx="5" class="b-n"/><text x="540.0" y="294.0" class="tb" text-anchor="middle">.factory/BUGS.md</text><text x="540.0" y="310.0" class="t" text-anchor="middle">logged, not fixed</text><polyline points="250,186 250,268" class="w" marker-end="url(#a2)"/><text x="244" y="232" class="lbl" text-anchor="end">agent dies</text><polyline points="450,186 450,226 330,226 330,268" class="w" marker-end="url(#a2)"/><text x="390" y="218" class="lbl" text-anchor="middle">dies or no proof</text><rect x="200" y="270" width="170" height="56" rx="5" class="b-bad"/><text x="285.0" y="294.0" class="tb" text-anchor="middle">Unverified</text><text x="285.0" y="310.0" class="t" text-anchor="middle">follow-up workflow</text></svg></div>
       <figcaption>Max cycles is 3, 5 or 10 depending on task size, with 5 as the default. Only the green box counts as clean and gets merged. A tester must show that it actually ran something. The two red outcomes are always named in the final report.</figcaption>
     </figure>
   </section>

diff --git a/README.md b/README.md
@@ -4,7 +4,7 @@ A Claude Code skill that turns one task into a tested feature branch and a pull 
 
 Built at [Blackbird](https://blackbird-lab.com) and shared for anyone who wants to use it.
 
-![The factory line: research produces a spec, builder and tester pairs build and test in parallel lanes, a merger integrates each wave, then acceptance, a pull request, and cleanup](docs/factory-line.png)
+![The factory line: Sonnet and Opus research, a Fable architect writes the spec, builders that start on Haiku and move up to Sonnet pair with Sonnet testers in parallel lanes, a merger integrates each wave, then acceptance, a pull request, and cleanup](docs/factory-line.png)
 
 The diagram shows a large run; small and medium runs use fewer stages. For the full walkthrough, including the build and test loop and per-lane resources, download [`software-factory-map.html`](software-factory-map.html) and open it in a browser.
 
